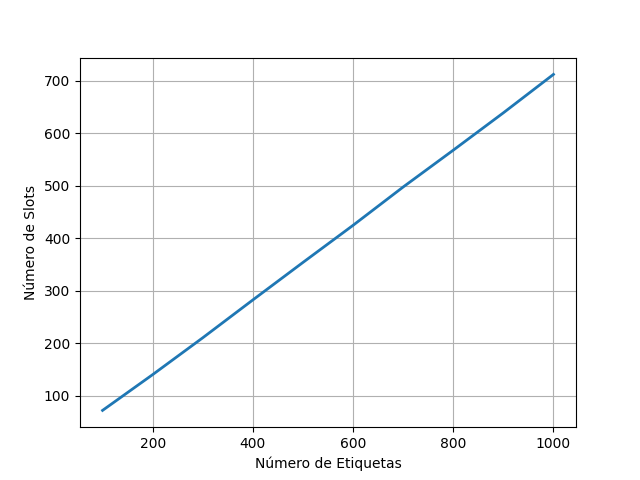
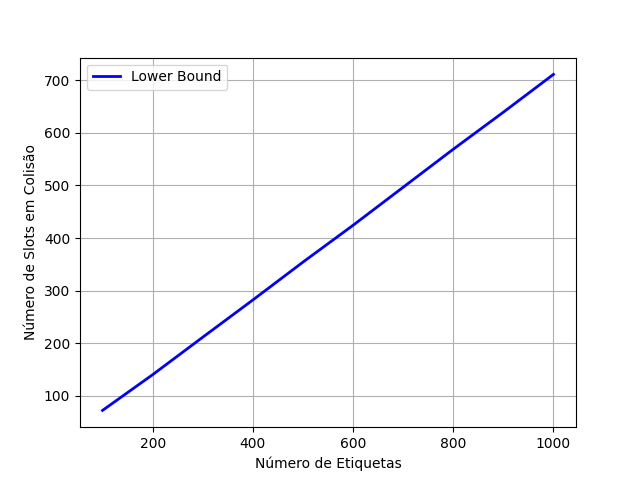
feat: comparison eom lee x lower bound

diff --git a/core/estimators.py b/core/estimators.py
@@ -4,16 +4,6 @@ import time
 
 from matplotlib import pyplot as plt
 
-
-def graph_plot(x_values, y_values, x_label, y_label, file_name, color="blue"):
-    plt.xlabel(x_label)
-    plt.ylabel(y_label)
-    plt.plot(x_values, y_values, linewidth=2, color=color)
-    plt.grid()
-    plt.savefig(f"graph_plots/{file_name}.png")
-    plt.close()
-
-
 def lower_bound(collisions):
     return collisions * 2
 
@@ -80,95 +70,120 @@ def dfsa(estimator, current_tag, current_frame):
 
 
 def simulate(
-    estimator,
+    estimators,
     initial_tag_amount,
     max_tag_amount,
     tag_increment_interval,
     max_repetition,
     initial_frame_size,
 ):
-    list_tags_interval = []
-    list_avg_collisions = []
-    list_avg_slots = []
-    list_avg_empty = []
-    list_avg_time = []
+    estimator_results = {}
 
-    for tag_index in range(1, int(max_tag_amount / initial_tag_amount) + 1):
-        tags = tag_index * tag_increment_interval
+    for estimator in range(1 if estimators == 0 else estimators):
+        if estimators == 1:
+            estimator = 1
+        if estimators == 0:
+            estimator = 0
 
-        current_tag = tags
-        current_frame = initial_frame_size
+        list_tags_interval = []
+        list_avg_collisions = []
+        list_avg_slots = []
+        list_avg_empty = []
+        list_avg_time = []
+        for tag_index in range(1, int(max_tag_amount / initial_tag_amount) + 1):
+            tags = tag_index * tag_increment_interval
 
-        avg_collisions = 0.0
-        avg_slots = 0.0
-        avg_empty = 0.0
-        avg_time = 0.0
-
-        current_repetition = max_repetition
-
-        for i in range(current_repetition):
             current_tag = tags
             current_frame = initial_frame_size
 
-            total_collisions, total_slots, total_empty, total_time = dfsa(
-                estimator, current_tag, current_frame
-            )
+            avg_collisions = 0.0
+            avg_slots = 0.0
+            avg_empty = 0.0
+            avg_time = 0.0
 
-            avg_collisions += total_collisions
-            avg_slots += total_slots
-            avg_empty += total_empty
-            avg_time += total_time
+            current_repetition = max_repetition
 
-        avg_collisions /= current_repetition
-        avg_slots /= current_repetition
-        avg_empty /= current_repetition
-        avg_time /= current_repetition
+            for i in range(current_repetition):
+                current_tag = tags
+                current_frame = initial_frame_size
 
-        list_avg_collisions.append(avg_collisions)
-        list_avg_slots.append(avg_slots)
-        list_avg_empty.append(avg_empty)
-        list_avg_time.append(avg_time)
+                total_collisions, total_slots, total_empty, total_time = dfsa(
+                    estimator, current_tag, current_frame
+                )
 
-        list_tags_interval.append(tags)
+                avg_collisions += total_collisions
+                avg_slots += total_slots
+                avg_empty += total_empty
+                avg_time += total_time
 
-        print(list_tags_interval, list_avg_collisions, list_avg_slots, list_avg_empty)
+            avg_collisions /= current_repetition
+            avg_slots /= current_repetition
+            avg_empty /= current_repetition
+            avg_time /= current_repetition
 
-    graph_plot_file_name_prefix = ""
-    if estimator == 0:
-        graph_plot_file_name_prefix = "lower_bound"
-        color = "blue"
-    if estimator == 1:
-        graph_plot_file_name_prefix = "eom_lee"
-        color = "green"
-    graph_plot(
-        list_tags_interval,
-        list_avg_collisions,
-        "Número de Etiquetas",
-        "Número de Slots em Colisão",
-        f"{graph_plot_file_name_prefix}_n_collisions",
-        color=color,
-    )
-    graph_plot(
-        list_tags_interval,
-        list_avg_slots,
-        "Número de Etiquetas",
-        "Número de Slots Vazios",
-        f"{graph_plot_file_name_prefix}_n_idle",
-        color=color,
-    )
-    graph_plot(
-        list_tags_interval,
-        list_avg_empty,
-        "Número de Etiquetas",
-        "Número de Slots",
-        f"{graph_plot_file_name_prefix}_n_slots",
-        color=color,
-    )
-    graph_plot(
-        list_tags_interval,
-        list_avg_time,
-        "Número de Etiquetas",
-        "Tempo para Identificação (sec)",
-        f"{graph_plot_file_name_prefix}_n_time",
-        color=color,
-    )
+            list_avg_collisions.append(avg_collisions)
+            list_avg_slots.append(avg_slots)
+            list_avg_empty.append(avg_empty)
+            list_avg_time.append(avg_time)
+
+            list_tags_interval.append(tags)
+
+            print(list_tags_interval, list_avg_collisions, list_avg_slots, list_avg_empty)
+        graph_plot_file_name_prefix = ""
+        if estimator == 0:
+            graph_plot_file_name_prefix = "lower_bound"
+        if estimator == 1:
+            graph_plot_file_name_prefix = "eom_lee"
+        if estimators == 2:
+            graph_plot_file_name_prefix = "lower_boundxeom_lee"
+        estimator_results[estimator] = {
+            "graph_plot_file_name_prefix": graph_plot_file_name_prefix,
+            "list_tags_interval": list_tags_interval,
+            "list_avg_collisions": list_avg_collisions,
+            "list_avg_slots": list_avg_slots,
+            "list_avg_empty": list_avg_empty,
+            "list_avg_time": list_avg_time
+        }
+
+        simulation_plot_graphs(estimator_results)
+
+
+def simulation_plot_graphs(estimator_results):
+    colors = ["blue", "green"]
+    labels = ["Lower Bound", "Eom-Lee"]
+    for result in estimator_results:
+        plt.xlabel("Número de Etiquetas")
+        plt.ylabel("Número de Slots em Colisão")
+        plt.plot(estimator_results[result]['list_tags_interval'], estimator_results[result]['list_avg_collisions'], linewidth=2, color=colors[result], label=labels[result])
+        plt.legend()
+        plt.grid()
+        plt.savefig(f"graph_plots/{estimator_results[result]['graph_plot_file_name_prefix']}_n_collisions.png")
+    plt.close()
+
+    for result in estimator_results:
+        plt.xlabel("Número de Etiquetas")
+        plt.ylabel("Número de Slots em Colisão")
+        plt.plot(estimator_results[result]['list_tags_interval'], estimator_results[result]['list_avg_slots'], linewidth=2, color=colors[result], label=labels[result])
+        plt.legend()
+        plt.grid()
+        plt.savefig(f"graph_plots/{estimator_results[result]['graph_plot_file_name_prefix']}_n_idle.png")
+    plt.close()
+
+    for result in estimator_results:
+        plt.xlabel("Número de Etiquetas")
+        plt.ylabel("Número de Slots em Colisão")
+        plt.plot(estimator_results[result]['list_tags_interval'], estimator_results[result]['list_avg_empty'], linewidth=2, color=colors[result], label=labels[result])
+        plt.legend()
+        plt.grid()
+        plt.savefig(f"graph_plots/{estimator_results[result]['graph_plot_file_name_prefix']}_n_slots.png")
+    plt.close()
+
+    for result in estimator_results:
+        plt.xlabel("Número de Etiquetas")
+        plt.ylabel("Número de Slots em Colisão")
+        plt.plot(estimator_results[result]['list_tags_interval'], estimator_results[result]['list_avg_time'], linewidth=2, color=colors[result], label=labels[result])
+        plt.legend()
+        plt.grid()
+        plt.savefig(f"graph_plots/{estimator_results[result]['graph_plot_file_name_prefix']}_n_time.png")
+    plt.close()
+

diff --git a/main.py b/main.py
@@ -6,7 +6,7 @@ def main():
     print("\nPlease enter the requested params below.")
 
     try:
-        estimator = int(input("Estimator (type 0 for Lower Bound, 1 for Eom-Lee): "))
+        estimator = int(input("Estimator (type 0 for Lower Bound, 1 for Eom-Lee, 2 for compare Lower Bound and Eom-Lee): "))
     except Exception:
         estimator = 0
 
